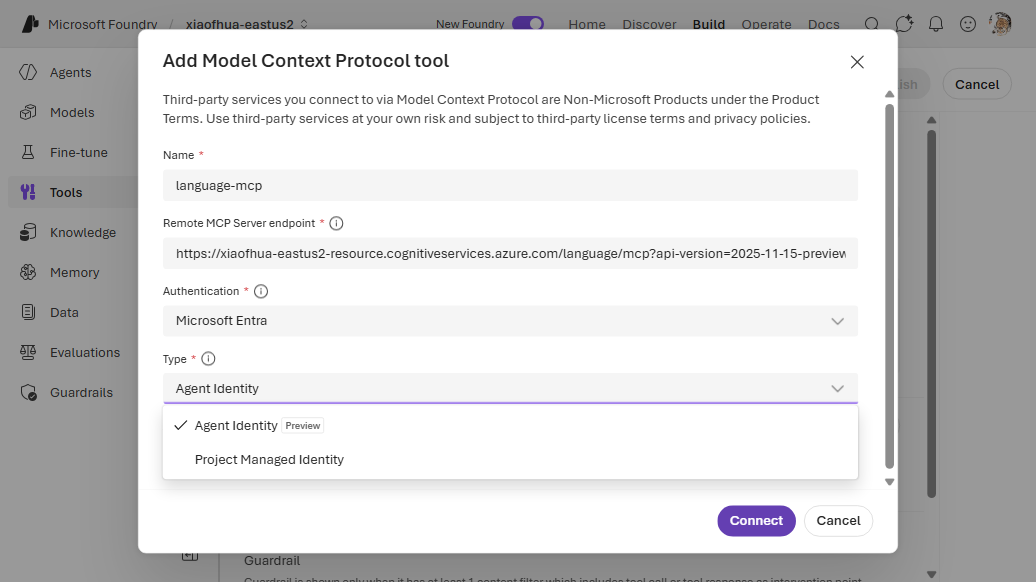
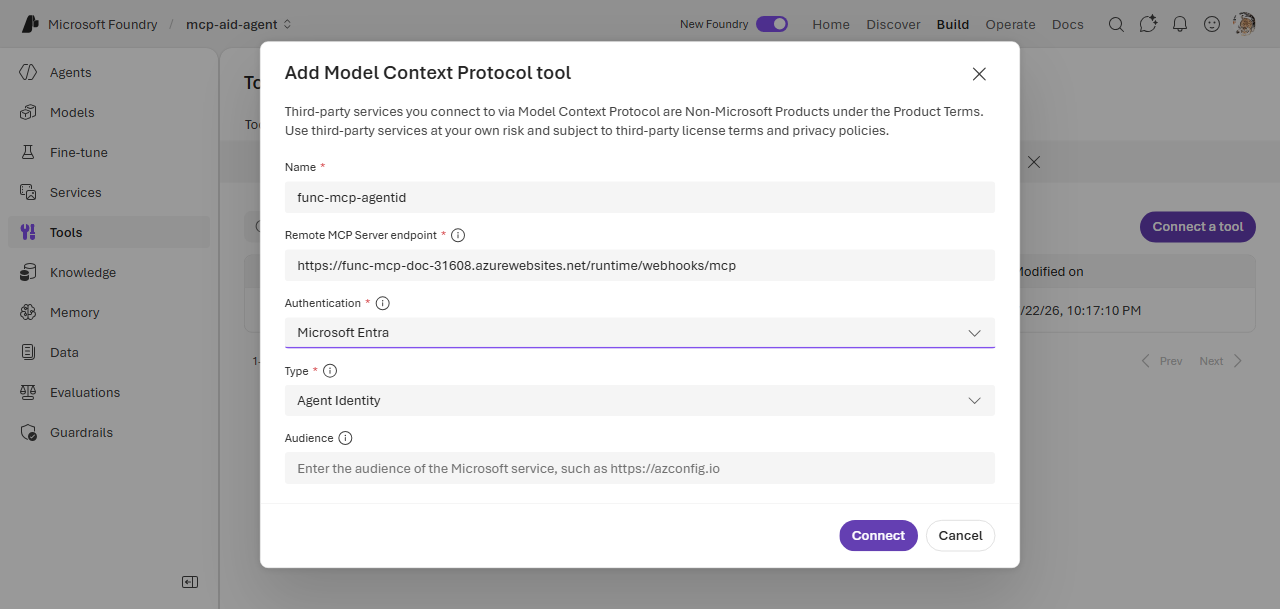
docs: sync MCP agent-identity guide + portal screenshots to toolbox-sample

diff --git a/docs/tools/mcp-agent-identity.md b/docs/tools/mcp-agent-identity.md
@@ -2,9 +2,17 @@
 
 Connect to an MCP server that accepts an **Entra ID token issued for a Foundry-managed identity**
 (no user in the loop, no stored secret). Foundry acquires the token and presents it to the server;
-you authorize by assigning that identity an **RBAC role** on the target resource before deploying.
+you authorize the identity on the target server before the agent invokes it.
 
-Pick the sub-type by *which* identity should call the server:
+**Connection required?** Yes (`AgenticIdentityToken` or `ProjectManagedIdentity`). **Example
+servers:** Azure Language MCP server (Microsoft-hosted — [Option A](#option-a--microsoft-hosted-mcp-server)),
+your own Azure Functions MCP (self-hosted — [Option B](#option-b--your-own-mcp-server)).
+
+---
+
+## Prerequisites
+
+Pick the **sub-type** by *which* identity should call the server:
 
 | Sub-type | CLI `--auth-type` | Stored `authType` | Identity used |
 |---|---|---|---|
@@ -15,17 +23,62 @@ Both are **app-only** (the token represents a service principal, not a user). Fo
 a comparison with the OAuth / passthrough modes, see
 [MCP authentication modes compared](../README.md#mcp-authentication).
 
-**Connection required?** Yes (`AgenticIdentityToken` or `ProjectManagedIdentity`). **Example
-server:** Azure Language MCP server.
+> **Agent identity only resolves inside a published agent.** You can't validate it with a standalone
+> `tools/list` against the toolbox — that returns `AgenticIdentityToken ... requires
+> AgentInstanceClientId`. The token is minted only when a **deployed, published agent** invokes the
+> toolbox. Project managed identity resolves without an agent, so use it to test the wiring first.
+
+You also need the connection's **audience** — the Entra resource the target server validates the
+token against. Foundry mints the token *for this audience*, and the server accepts it only if the
+`aud` matches. Where it comes from depends on the server:
+
+| Your MCP is… | Authorize the identity by… | Audience | Follow |
+|---|---|---|---|
+| **Option A — Microsoft-hosted** (e.g. Azure Language MCP) | granting an **RBAC role** on the target Azure resource | a well-known value, e.g. `https://cognitiveservices.azure.com/` (see the server's docs) | [Option A](#option-a--microsoft-hosted-mcp-server) |
+| **Option B — your own server** (e.g. Azure Functions + Easy Auth) | **allow-listing** the identity's client ID on your server | the app ID URI of your server's Entra app, `api://<your-app-id>` | [Option B](#option-b--your-own-mcp-server) |
+
+### Option A — Microsoft-hosted MCP server
+
+Microsoft already built the server to accept Foundry-managed-identity tokens. Use the server's
+documented **audience** (e.g. `https://cognitiveservices.azure.com/` for Azure Language MCP), and
+authorize by granting the identity an **RBAC role** — see [CLI](#3-authorize-the-identity) /
+[Portal](#portal-foundry--azure).
+
+### Option B — your own MCP server
+
+Your server (e.g. an MCP on **Azure Functions** behind App Service built-in authentication / "Easy
+Auth") validates the token itself, so it accepts a Foundry-managed-identity token only when **all
+three** line up:
+
+1. **Audience** — the server's accepted audiences include the connection's `--audience`
+   (`api://<your-app-id>`).
+2. **Issuer** — your tenant's v2 issuer, `https://login.microsoftonline.com/<tenant-id>/v2.0`.
+3. **Allowed application** *(the key step)* — the calling identity's **client ID** is on the
+   server's allow-list. Omitting this is the most common cause of a `401` from an otherwise-correct
+   server: the token passes audience/issuer validation but the caller isn't an allowed application.
+
+If you don't know the audience, probe the server — an unauthenticated request returns a `401` with a
+`WWW-Authenticate` header naming the expected resource:
+
+```bash
+curl -s -i https://<server>/mcp -X POST -d '{}' | grep -i www-authenticate
+# Bearer ... scope="api://<app-id>/user_impersonation", resource_metadata="https://.../.well-known/oauth-protected-resource..."
+```
+
+Configuring the server's Entra authentication itself (enabling Easy Auth, registering the API app,
+setting audiences) is server-side setup outside this guide. This page covers **what the identity
+needs from that config** — the audience match and the allow-list, done in
+[step 3](#3-authorize-the-identity).
 
 ---
 
-## 1. Create the connection
+## CLI (`azd` + `az`)
 
-Pick the `--auth-type` matching the identity you want (see the table above).
+### 1. Create the connection
+
+Pick the `--auth-type` for your sub-type; pass the [audience](#prerequisites) for your server.
 
 ```bash
-# Agent Identity — the agent's own managed identity
 azd ai connection create langmcpconn \
   --kind remote-tool \
   --target "https://<language-service>.cognitiveservices.azure.com/language/mcp?api-version=2025-11-15-preview" \
@@ -33,29 +86,14 @@ azd ai connection create langmcpconn \
   --audience "https://cognitiveservices.azure.com/" \
   --project-endpoint "$FOUNDRY_PROJECT_ENDPOINT"
 
-# Project Managed Identity — the shared project MI (swap the auth-type)
-#   --auth-type project-managed-identity
+# Project Managed Identity — swap the auth-type:  --auth-type project-managed-identity
+# Option B — set --target to your MCP endpoint and --audience to api://<your-app-id>
 ```
 
-> **audience** — the Entra resource the target server validates tokens against.
+### 2. Create the toolbox and deploy the agent
 
-## 2a. CLI — Way A (`toolbox.yaml`)
-
-```yaml
-# toolbox.yaml
-description: agent-identity-mcp toolbox
-tools:
-  - type: mcp
-    server_label: language-mcp
-    project_connection_id: langmcpconn
-    require_approval: "never"
-```
-
-```bash
-azd ai toolbox create agent-tools --from-file ./toolbox.yaml --project-endpoint "$FOUNDRY_PROJECT_ENDPOINT"
-```
-
-## 2b. CLI — Way B (`azure.yaml`)
+Agent identity is minted only for a **published** agent, so declare the toolbox and agent together
+and deploy — this publishes the agent whose identity you authorize in step 3.
 
 ```yaml
 # azure.yaml
@@ -77,45 +115,163 @@ services:
 ```
 
 ```bash
-azd deploy agent-tools
+azd up   # provision + deploy the project and publish the agent
+```
+
+### 3. Authorize the identity
+
+The agent is now published, so its identity exists. First get the identity's IDs:
+
+```bash
+# Project managed identity → the Foundry account's system-assigned identity
+PRINCIPAL=$(az cognitiveservices account show -n <foundry-account> -g <rg> --query "identity.principalId" -o tsv)
+APP_ID=$(az ad sp show --id "$PRINCIPAL" --query appId -o tsv)   # its app (client) ID
+
+# Agent identity → SPs named after the account/project/agent, ending in "-AgentIdentity";
+# list them and pick the one for your agent:
+az ad sp list --all --query "[?ends_with(displayName,'-AgentIdentity')].{name:displayName, appId:appId}" -o table
+```
+
+**Option A — Microsoft-hosted server:** grant the identity an **RBAC role** on the target resource.
+
+```bash
+az role assignment create --assignee "$PRINCIPAL" \
+  --role "Cognitive Services User" \
+  --scope "/subscriptions/<sub>/resourceGroups/<rg>/providers/Microsoft.CognitiveServices/accounts/<language-service>"
+```
+
+**Option B — your own server:** add the identity's **client ID** to the server's Easy Auth
+allow-list (`allowedApplications`). Use the **agent identity** app ID for `AgenticIdentityToken`, or
+the **project resource** app ID for `ProjectManagedIdentity`.
+
+```bash
+SUB=<sub>; RG=<function-rg>; FA=<function-app>
+TENANT=$(az account show --query tenantId -o tsv)
+FUNC_APP_ID=<function-entra-app-id>          # the app registered for your Function's Easy Auth
+AGENT_APP_ID=<agent-identity-app-id>         # from the list above
+
+cat > authv2.json <<EOF
+{ "properties": {
+  "platform": { "enabled": true, "runtimeVersion": "~1" },
+  "globalValidation": { "requireAuthentication": true, "unauthenticatedClientAction": "Return401" },
+  "identityProviders": { "azureActiveDirectory": {
+    "enabled": true,
+    "registration": { "openIdIssuer": "https://login.microsoftonline.com/$TENANT/v2.0", "clientId": "$FUNC_APP_ID" },
+    "validation": {
+      "allowedAudiences": [ "api://$FUNC_APP_ID", "$FUNC_APP_ID" ],
+      "defaultAuthorizationPolicy": { "allowedApplications": [ "$FUNC_APP_ID", "$AGENT_APP_ID" ] }
+    }
+  }}
+}}
+EOF
+
+az rest --method put \
+  --url "https://management.azure.com/subscriptions/$SUB/resourceGroups/$RG/providers/Microsoft.Web/sites/$FA/config/authsettingsV2?api-version=2022-03-01" \
+  --body @authv2.json
 ```
 
 ---
 
 ## Portal (Foundry / Azure)
 
-1. In the [Foundry portal](https://ai.azure.com/), open **Tools** → **Toolboxes** tab →
-   **Create toolbox**. Give it a **Name**.
-2. Under **Included**, click **+ Add** → **Add tool** → the **Custom** tab → **Model Context
-   Protocol (MCP)** → **Create**.
-3. In the **Add Model Context Protocol tool** dialog: enter a **Name**, set the **Remote MCP Server
-   endpoint** (the Azure Language MCP URL), and set **Authentication** to **Microsoft Entra**. A
-   **Type** sub-dropdown appears — choose **Agent Identity** (the agent's own managed identity) or
-   **Project Managed Identity** — and enter the **Audience** (e.g.
-   `https://cognitiveservices.azure.com/`). No secret is required. Click **Connect**.
+### 1. Create the connection
 
-   ![Foundry portal — Microsoft Entra auth, Type dropdown](../images/portal-mcp-entra-type.png)
-4. In the [Azure portal](https://portal.azure.com/), grant the project/agent **managed identity**
-   the required RBAC role on the target resource (e.g. **Cognitive Services User**).
-5. Click **Publish** and copy the endpoint into `TOOLBOX_ENDPOINT`.
+In the [Foundry portal](https://ai.azure.com/), open **Build** → **Tools** → **Connect a tool** →
+the **Custom** tab → **Model Context Protocol (MCP)** → **Create**. Enter a **Name** and **Remote
+MCP Server endpoint**, set **Authentication** to **Microsoft Entra**, then choose the **Type** —
+**Agent Identity** or **Project Managed Identity** — and enter the **Audience**.
 
-   ![Foundry portal — published Entra MCP toolbox](../images/portal-mcp-agent-identity-detail.png)
+![Foundry portal — Microsoft Entra auth, Type dropdown showing Agent Identity / Project Managed Identity](../images/portal-mcp-entra-type-dropdown.png)
+
+Filled in for an agent-identity connection, then **Connect**:
+
+![Foundry portal — MCP tool with Microsoft Entra, Agent Identity, and Audience filled](../images/portal-mcp-agentid-config.png)
+
+### 2. Create the toolbox and deploy the agent
+
+Under **Tools** → **Toolboxes** → **Create toolbox**, add the MCP tool, then **Publish**. Deploy an
+agent that uses the toolbox (`azd up`, or the portal agent builder) so its identity exists for the
+next step.
+
+### 3. Authorize the identity
+
+First create the connection with **Microsoft Entra** → **Agent Identity** and the server's audience
+(e.g. `https://cognitiveservices.azure.com/` for Azure Language MCP):
+
+![Foundry portal — Azure Language MCP connection with Agent Identity and audience](../images/portal-mcp-agentid-language-config.png)
+
+**Option A — Microsoft-hosted server:** in the [Azure portal](https://portal.azure.com/), open the
+target resource → **Access control (IAM)** → **Add role assignment**, and grant the project/agent
+managed identity the required role (e.g. **Cognitive Services User**). After assignment, the role
+shows the project managed identity and each published agent's identity:
+
+![Azure portal — Cognitive Services User role assigned to project MI and agent identities](../images/portal-rbac-cognitive-services-user.png)
+
+**Option B — your own server:** the audience and the caller allow-list live wherever your server
+validates the token. Use **whichever one** matches your server — you don't do both:
+
+- **Own Entra-app-protected server** → configure it in the **Entra app registration**.
+- **Azure Functions behind Easy Auth** → configure it in the Function App's **Easy Auth**.
+
+#### Option B-1 — Entra app registration
+
+This is where the **audience** is defined: the app's **Application ID URI** (`api://<your-app-id>`)
+on the **Expose an API** blade — pass this exact value as the connection's audience:
+
+![Entra app registration — Expose an API showing the Application ID URI (the audience)](../images/portal-entra-app-id-uri.png)
+
+To allow-list a caller, use **Authorized client applications** → **Add a client application** (the app
+must publish a scope first). Enter the identity's **client ID** (agent identity app ID for
+`AgenticIdentityToken`, or the project resource app ID for `ProjectManagedIdentity`) and check the
+scope:
+
+![Entra app registration — Add a client application with the agent identity client ID and scope](../images/portal-entra-authorized-client-app.png)
+
+#### Option B-2 — Azure Functions Easy Auth
+
+If instead your MCP runs on **Azure Functions with Easy Auth**, open the Function App's
+**Authentication** blade → **Edit identity provider**. The audience is under **Allowed token
+audiences**; under **Client application requirement** choose **Allow requests from specific client
+applications** → **Edit application IDs** and add the identity's **client ID** (agent identity app ID
+for `AgenticIdentityToken`, or the project resource app ID for `ProjectManagedIdentity`):
+
+![Function App Easy Auth — audience and allowed client applications for the agent identity](../images/portal-func-allowed-apps-flyout.png)
+
+---
 
 ## VS Code (Foundry Toolkit)
 
 1. Open the **Microsoft Foundry** view and sign in.
 2. **Connections** → **Create connection** → **MCP (agent identity)** → set target + audience.
-3. Grant the managed identity RBAC in the Azure portal (step 2 above).
-4. **Tools** → **Toolboxes** → **Create toolbox** → add MCP server → select the connection.
+3. **Tools** → **Toolboxes** → **Create toolbox** → add MCP server → select the connection.
+4. Deploy the agent and authorize the identity ([step 3](#3-authorize-the-identity)).
 
 ![VS Code Foundry Toolkit — MCP agent identity (TODO: screenshot)](../images/vscode-mcp-agent-identity.png)
 
 ---
 
-## Notes
+## Test in the remote agent
 
-- If `tools/list` returns zero for this MCP server, the managed identity likely lacks RBAC on the
-  target — verify the role assignment in the Azure portal.
+However you created the connection, toolbox, and agent (CLI, portal, or VS Code), validate the same
+way: make sure the agent's `TOOLBOX_ENDPOINT` points at the toolbox, then invoke the **published**
+agent with a prompt that uses the tool.
+
+```bash
+azd ai agent invoke <agent-name> "Use the <tool> to ..."
+```
+
+The agent's runtime acquires the managed-identity token and calls the MCP server. On success, the
+tool output appears in the response. If it fails, see [Troubleshooting](#troubleshooting).
+
+---
+
+## Troubleshooting
+
+| Symptom | Cause | Fix |
+|---|---|---|
+| `AgenticIdentityToken ... requires AgentInstanceClientId` on `tools/list` | Agent identity resolves only inside a **published agent**, not a standalone toolbox call. | Invoke through a deployed agent, or test the wiring with **project managed identity** first. |
+| **`401`** from the server | The token was *rejected*: audience, issuer, or allow-list mismatch (Option B), or the server doesn't accept managed-identity tokens. | Confirm the server's accepted **audience** matches the connection's `--audience`, the **issuer** is your tenant's v2 endpoint, and the identity's **client ID is allow-listed** ([step 3, Option B](#3-authorize-the-identity)). |
+| **`403`** from the server | The token was *accepted* but the identity lacks permission. | Grant the required **RBAC role** on the target resource (Option A), or confirm the correct client ID is in **allowedApplications** (Option B). |
 
 ## References
 
